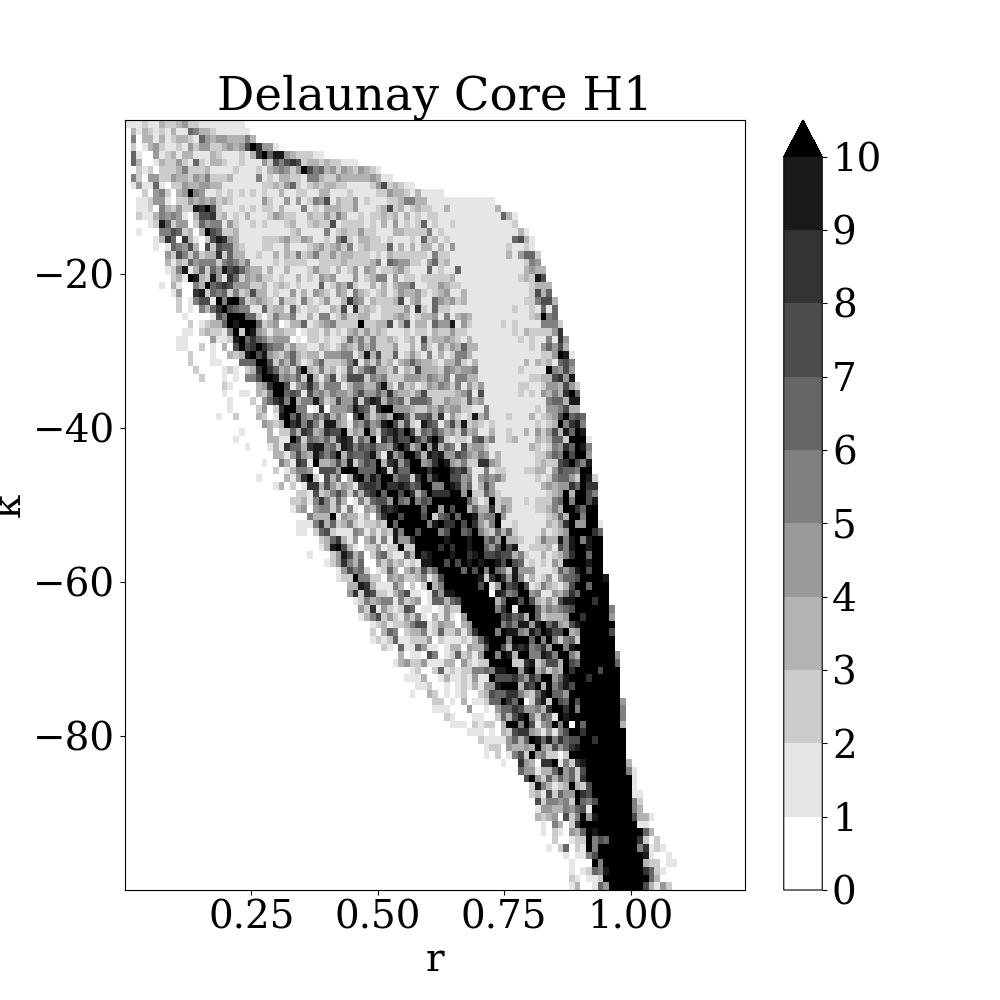
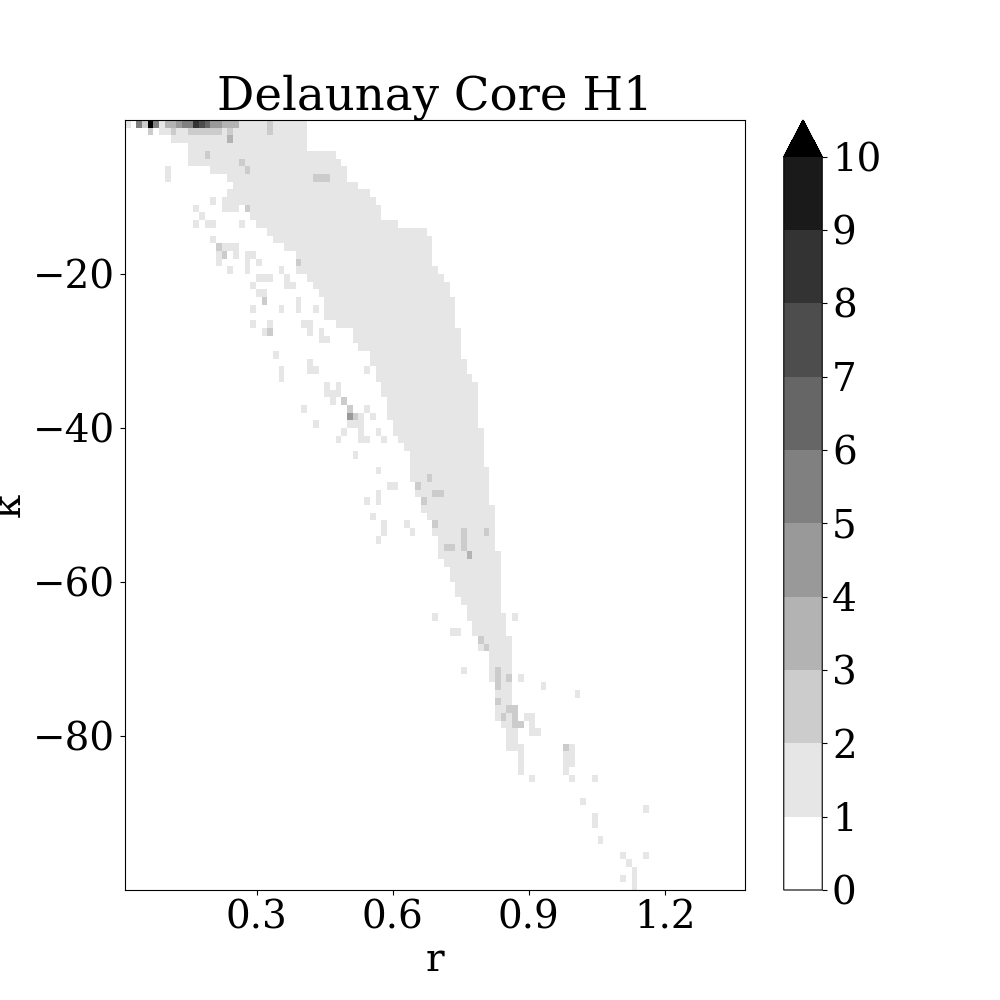
fixed bug when plotting the Hilbert functions

diff --git a/generate_plots.py b/generate_plots.py
@@ -15,7 +15,7 @@ plt.rcParams["figure.figsize"] = (10, 10)
 
 def plot_signed_measure(slicer_or_st, homology_dimension: int, k_max: int, plot_title: str, filename: str):
     print(f"Computing signed measure and plotting...")
-    signed_measure, = mp.signed_measure(slicer, degree=homology_dimension, invariant="hilbert")
+    signed_measure, = mp.signed_measure(slicer_or_st, degree=homology_dimension, invariant="hilbert")
     _ = mp.point_measure.integrate_measure(*signed_measure, plot=True)
 
     ax = plt.gca()
@@ -26,27 +26,24 @@ def plot_signed_measure(slicer_or_st, homology_dimension: int, k_max: int, plot_
     ax.yaxis.set_major_locator(mticker.MaxNLocator(nbins=5, prune="both"))
     ax.xaxis.set_major_locator(mticker.MaxNLocator(nbins=5, prune=None))
     plt.savefig(filename)
+    plt.show()
     plt.clf()
 
 if __name__ == "__main__":
     rng = np.random.default_rng(0)
-    X = uniform_circle(180, 20, rng)
+    X = uniform_circle(100, 50, rng)
 
     output_dir = Path("./plots")
     output_dir.mkdir(parents=True, exist_ok=True)
 
-    k_max = 100 
+    k_max = 100
     homology_dimension = 1
 
     # Rhomboid tiling bifiltration (unsliced)
     slicer = rhomboid_tiling_slicer(X, k_max=k_max, homology_dimension=homology_dimension, sliced=False)
     plot_signed_measure(slicer, homology_dimension, k_max, "Rhomboid (unsliced)", output_dir / "unsliced_rhomboid_tiling_signed_measure.png")
 
-    # Rhomboid tiling bifiltration (sliced)
-    slicer = rhomboid_tiling_slicer(X, k_max=k_max, homology_dimension=homology_dimension, sliced=True)
-    plot_signed_measure(slicer, homology_dimension, k_max, "Rhomboid (sliced)", output_dir / "sliced_rhomboid_tiling_signed_measure.png")
-
     # Delaunay Core bifiltration
-    beta = 1
-    st = mp.filtrations.CoreDelaunay(X, beta=beta, ks=range(1, k_max + 1))
+    beta = 1.0
+    st = mp.filtrations.CoreDelaunay(X, beta=beta, ks=np.arange(1, k_max + 1, 1))
     plot_signed_measure(st, homology_dimension, k_max, "Delaunay Core", output_dir / "delaunay_core_signed_measure.png")
